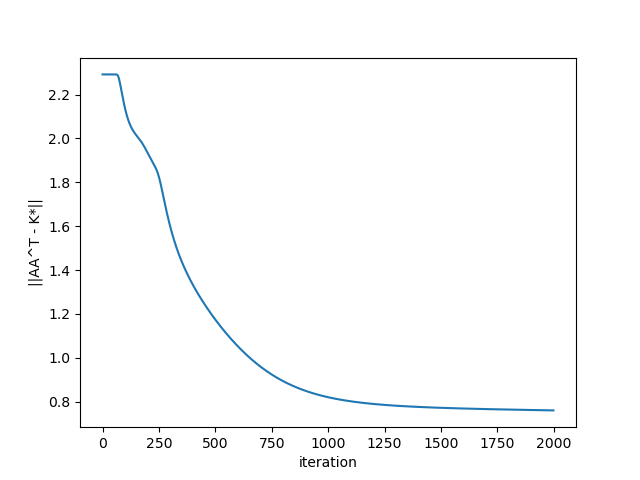
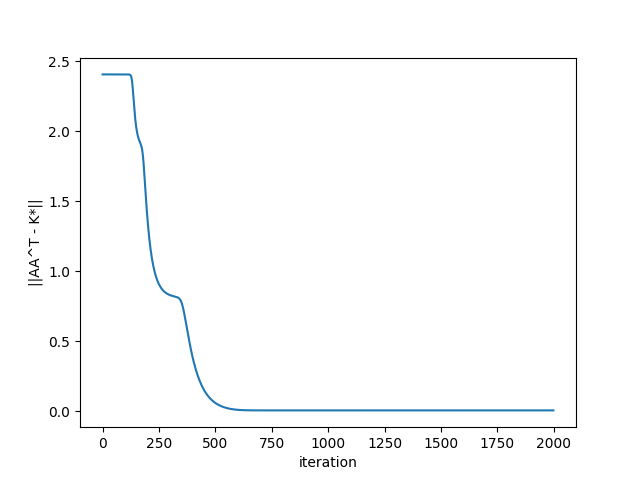
editing initialization experiment

diff --git a/initialization_experiment_numpy.py b/initialization_experiment_numpy.py
@@ -28,7 +28,7 @@ def generate_synthetic_data(n, r, p, data, S=None):
                         Sbar.append((i, j, k))
         Sbar = cp.array(Sbar)
     
-        choices = cp.random.choice([False, True], size=len(Sbar), replace=True, p=[0.9, 0.1])
+        choices = cp.random.choice([False, True], size=len(Sbar), replace=True, p=[0.7, 0.3])
         S = Sbar[choices, :]
 
     M = []
@@ -50,7 +50,7 @@ def generate_synthetic_data(n, r, p, data, S=None):
     #     y.append(yt)
     # y = cp.array(y)
     
-    return X, M, S, y, Astar, Kstar
+    return X, S, y, Astar, Kstar
 
 def initialization(n, p, S, X, y):
     transition_matrices = [cp.zeros((n - 1, n - 1)) for _ in range(n)]
@@ -108,67 +108,29 @@ def initialization(n, p, S, X, y):
 
     return Ahat
 
-def L(A, y, M):
-    yMts = torch.reshape(y, (-1, 1, 1)) * M
-    yMtAs = torch.einsum('bij,jk->bik', yMts, A)
+def L(A, triplets): 
+    yMtAs = torch.einsum('bij,jk->bik', triplets, A)
     yMtAATs = torch.einsum('bij,jk->bik', yMtAs, torch.transpose(A, 0, 1))
     TryMtAATs = torch.einsum('bii->b', yMtAATs)
     losses = torch.log(1 + torch.exp(-TryMtAATs))
     
     return torch.mean(losses)
 
-# synthetic_data = pd.DataFrame(cp.random.normal(size=(1000, 50)).get())
+synthetic_data = pd.DataFrame(cp.random.normal(size=(1000, 50)).get())
 
 r = 3
 p = 20
-n = 150
 
-data_source = ACSDataSource(survey_year='2018', horizon='1-Year', survey='person')
-acs_data = data_source.get_data(states=["AL"], download=True)
-
-acs_data_cleaned = acs_data.select_dtypes(include="float64")
-acs_data_cleaned = acs_data_cleaned.loc[:, ~(acs_data_cleaned.isna().mean(axis=0) > 0.78)]
-acs_data_cleaned = acs_data_cleaned.loc[~acs_data_cleaned.isna().any(axis=1)]
-acs_data_cleaned = acs_data_cleaned.loc[:, (acs_data_cleaned.var(axis=0) > 0)]
-print(np.shape(np.array(acs_data_cleaned)))
-
-
-print("Generating synthetic data...")
-X, M, S, y, Astar, Kstar = generate_synthetic_data(n, r, p, acs_data_cleaned)
-print(cp.shape(X))
-
-np.save("Astar.npy", Astar.asnumpy())
-
-print("Initializing...")
-A0 = initialization(n, p, S, X, y)
-
-print(cp.linalg.norm(Astar - A0))
-
-
-
-print("Starting gradient descent...")
-
-A_iterates = []
-A = torch.tensor(A0.asnumpy(), requires_grad=True, device="cuda")
-dists = []
-
-y_tensor = torch.tensor(y, device="cuda")
-M_tensor = torch.tensor(M, device="cuda")
-for iterate in range(1000):
-    loss = L(A, y_tensor, M_tensor)
-    loss.backward()
-    with torch.no_grad():
-        A -= A.grad * 0.01
-        A_iterates.append(A.detach().cpu().numpy())
-        dists.append(np.linalg.norm(A.detach().cpu().numpy() @ A.detach().cpu().numpy().T - Kstar))
-        A.grad.zero_()
-    if iterate % 10 == 9:
-        print(iterate + 1, loss, np.linalg.norm(A.detach().cpu().numpy() @ A.detach().cpu().numpy().T - Kstar))
-
-np.save("A_iterates.npy", A_iterates)
-
-plt.plot(dists)
-plt.xlabel("iteration")
-plt.ylabel("||AA^T - K*||")
-
-plt.savefig("gd.png")
+for n in range(100, 400, 20):
+    
+    print("Generating synthetic data...")
+    X, S, y, Astar, Kstar = generate_synthetic_data(n, r, p, synthetic_data)
+    print(cp.shape(X))
+    
+    cp.save("Astar.npy", Astar.get())
+    
+    print("Initializing...")
+    A0 = initialization(n, p, S, X, y)
+    
+    print(n)
+    print(cp.linalg.norm(Astar - A0))

diff --git a/metric_learning_experiment_numpy.py b/metric_learning_experiment_numpy.py
@@ -2,9 +2,9 @@ import numpy as np
 from folktables import ACSDataSource, ACSMobility
 from matplotlib import pyplot as plt
 import torch
-import cupy as cp
-from cupyx.scipy import stats
-from cupyx.scipy.sparse.linalg import lobpcg
+import numpy as cp
+from scipy import stats
+from scipy.sparse.linalg import lobpcg
 import pandas as pd
 
 def m_dist2(x1, x2, K):
@@ -28,7 +28,7 @@ def generate_synthetic_data(n, r, p, data, S=None):
                         Sbar.append((i, j, k))
         Sbar = cp.array(Sbar)
     
-        choices = cp.random.choice([False, True], size=len(Sbar), replace=True, p=[0.9, 0.1])
+        choices = cp.random.choice([False, True], size=len(Sbar), replace=True, p=[0.95, 0.05])
         S = Sbar[choices, :]
 
     M = []
@@ -61,9 +61,6 @@ def initialization(n, p, S, X, y):
             else:
                 return l - 1
         i, j, k = S[t]
-        i = i.get()
-        j = j.get()
-        k = k.get()
         transition_matrices[i][gap(j, i), gap(k, i)] = 0.99 if y[t] == 1 else 0.01
         transition_matrices[i][gap(k, i), gap(j, i)] = 0.99 if y[t] == -1 else 0.01
 
@@ -117,11 +114,13 @@ def L(A, y, M):
     
     return torch.mean(losses)
 
-# synthetic_data = pd.DataFrame(cp.random.normal(size=(1000, 50)).get())
+# synthetic_data = pd.DataFrame(np.random.normal(size=(1000, 50)))
+synthetic_data = pd.DataFrame(np.random.uniform(low=-1, high=1, size=(1000, 50)))
 
 r = 3
-p = 20
-n = 150
+p = 30
+n = 400
+
 
 data_source = ACSDataSource(survey_year='2018', horizon='1-Year', survey='person')
 acs_data = data_source.get_data(states=["AL"], download=True)
@@ -134,10 +133,10 @@ print(np.shape(np.array(acs_data_cleaned)))
 
 
 print("Generating synthetic data...")
-X, M, S, y, Astar, Kstar = generate_synthetic_data(n, r, p, acs_data_cleaned)
+X, M, S, y, Astar, Kstar = generate_synthetic_data(n, r, p, synthetic_data)
 print(cp.shape(X))
 
-np.save("Astar.npy", Astar.asnumpy())
+np.save("Astar.npy", Astar)
 
 print("Initializing...")
 A0 = initialization(n, p, S, X, y)
@@ -149,16 +148,16 @@ print(cp.linalg.norm(Astar - A0))
 print("Starting gradient descent...")
 
 A_iterates = []
-A = torch.tensor(A0.asnumpy(), requires_grad=True, device="cuda")
+A = torch.tensor(A0, requires_grad=True, device="cuda")
 dists = []
 
 y_tensor = torch.tensor(y, device="cuda")
 M_tensor = torch.tensor(M, device="cuda")
-for iterate in range(1000):
+for iterate in range(2000):
     loss = L(A, y_tensor, M_tensor)
     loss.backward()
     with torch.no_grad():
-        A -= A.grad * 0.01
+        A -= A.grad * 0.1
         A_iterates.append(A.detach().cpu().numpy())
         dists.append(np.linalg.norm(A.detach().cpu().numpy() @ A.detach().cpu().numpy().T - Kstar))
         A.grad.zero_()
